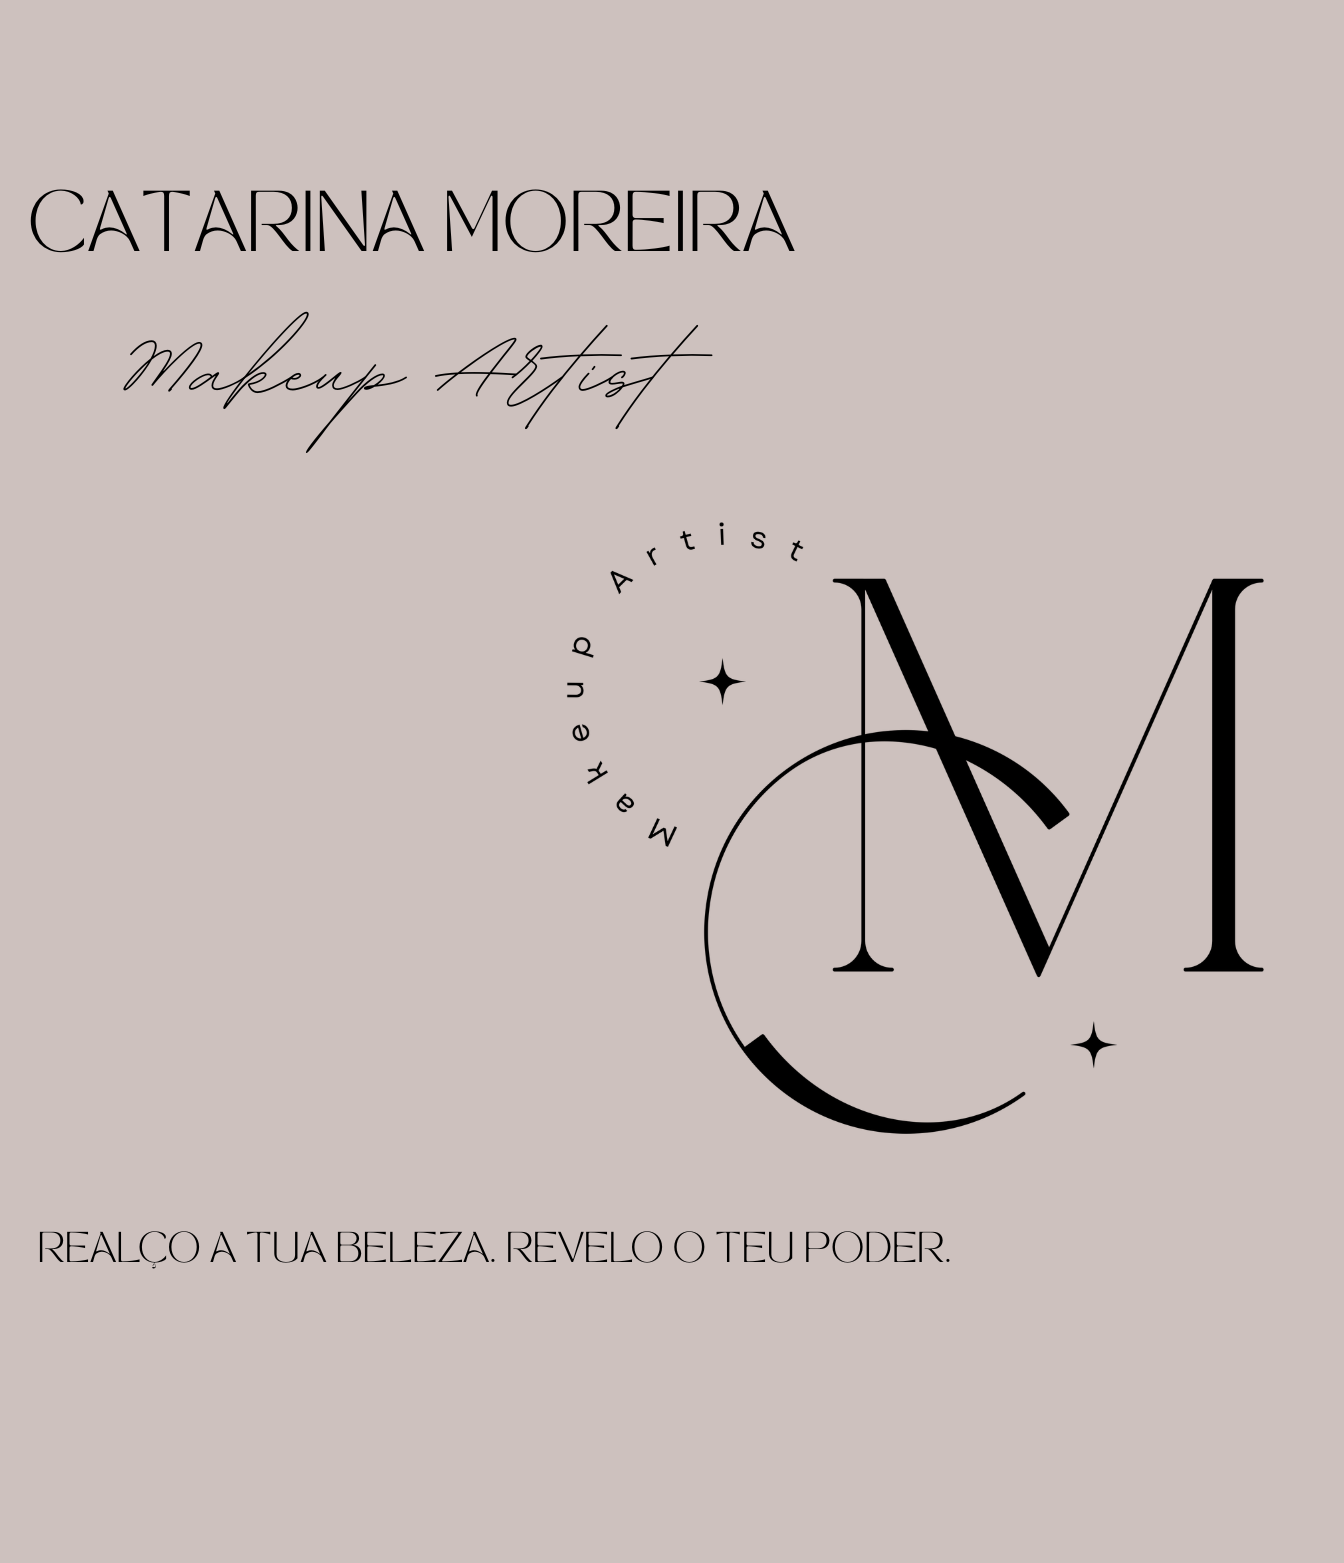
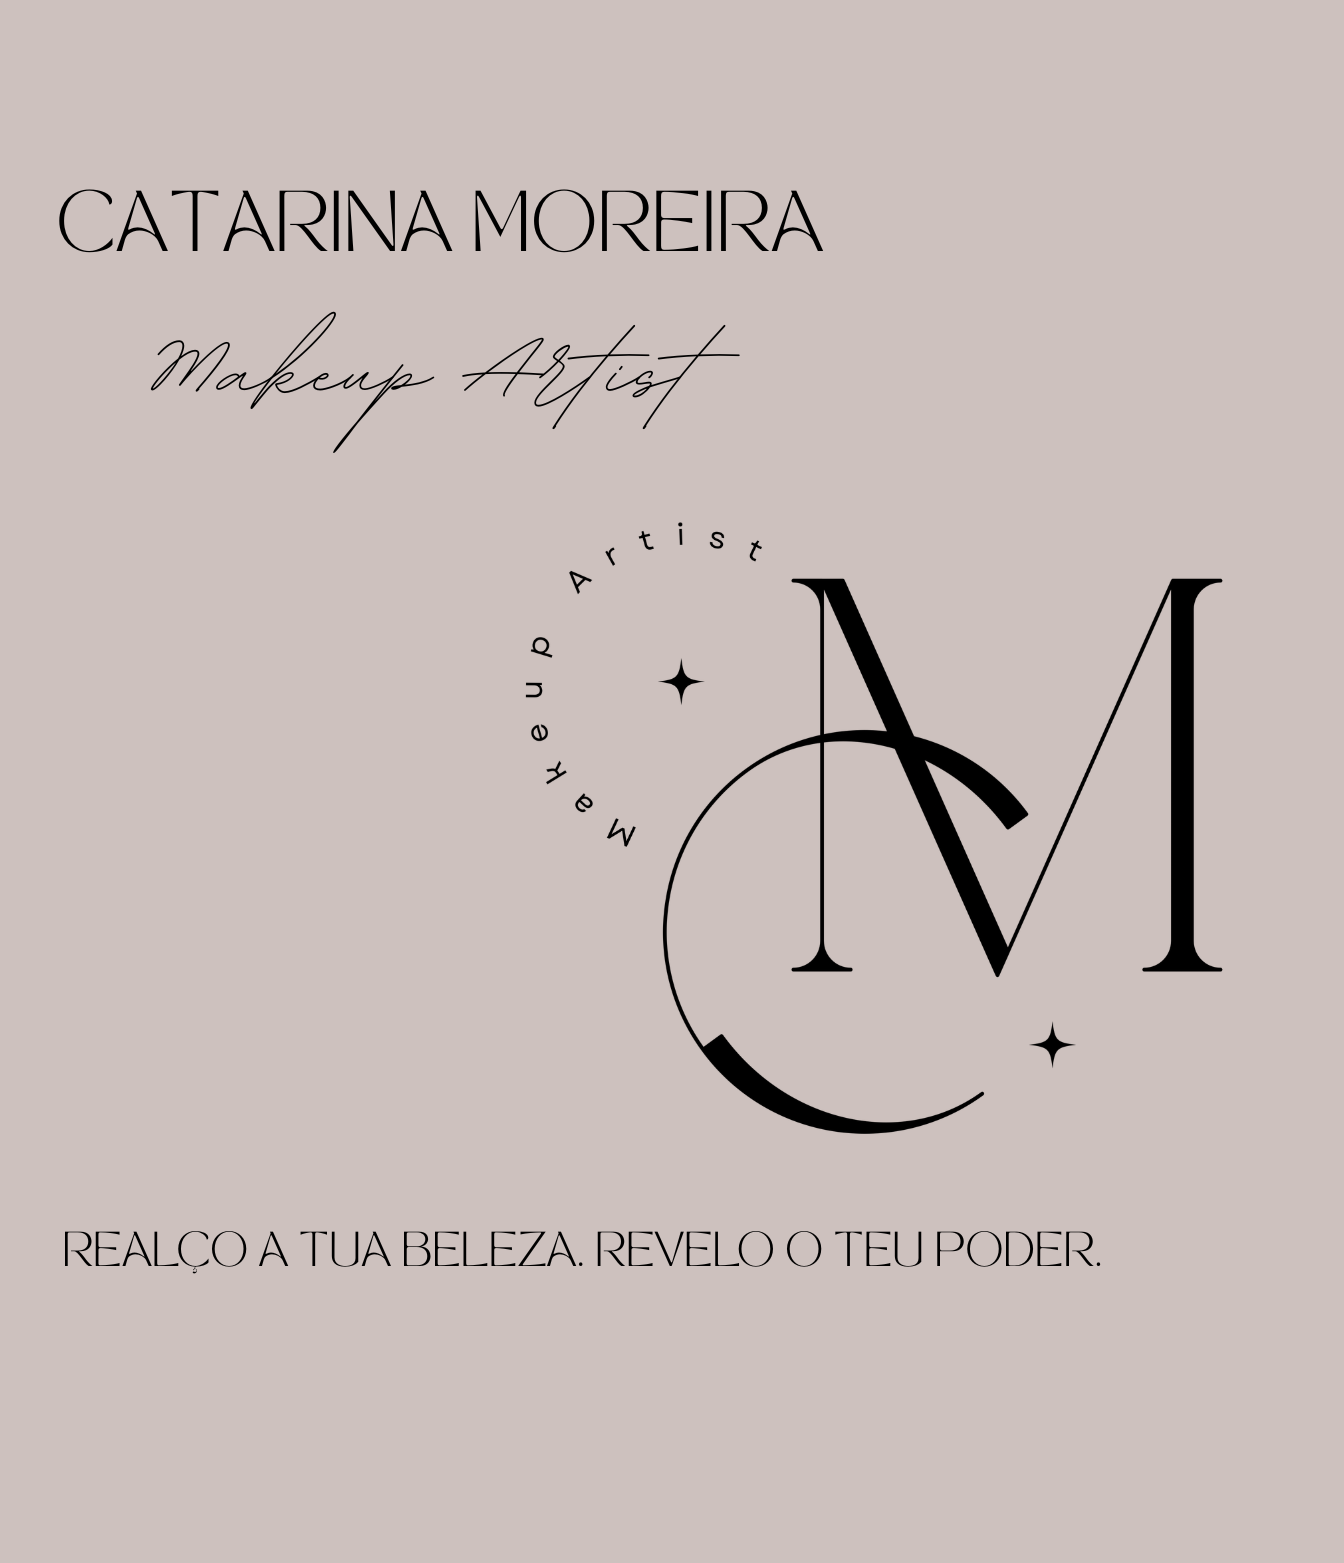
Fix visual stuff

diff --git a/src/index.css b/src/index.css
@@ -52,47 +52,6 @@ body {
   overflow-x: hidden;
 }
 
-/* Block landscape orientation on mobile/tablet only (not desktop) */
-.landscape-blocker {
-  display: none;
-}
-
-@media (orientation: landscape) and (max-height: 600px) {
-  body {
-    overflow: hidden;
-  }
-
-  .landscape-blocker {
-    display: flex;
-    align-items: center;
-    justify-content: center;
-    position: fixed;
-    inset: 0;
-    z-index: 99999;
-    background: var(--bg);
-    padding: 2rem;
-    text-align: center;
-  }
-
-  .landscape-blocker-content {
-    max-width: 320px;
-  }
-
-  .landscape-blocker-icon {
-    display: block;
-    font-size: 4rem;
-    margin-bottom: 1rem;
-    color: var(--accent);
-  }
-
-  .landscape-blocker p {
-    margin: 0;
-    font-size: 1.125rem;
-    color: var(--text);
-    line-height: 1.5;
-  }
-}
-
 a {
   color: var(--accent);
   text-decoration: none;

diff --git a/src/pages/Page.css b/src/pages/Page.css
@@ -53,6 +53,7 @@
   margin-left: calc(50% - 50vw);
   margin-right: calc(50% - 50vw);
   width: 100vw;
+  width: 100svw; /* avoid scrollbar clipping on desktop */
   min-height: 100vh;
   padding: 0;
   display: flex;
@@ -61,6 +62,23 @@
   box-sizing: border-box;
   position: relative;
   overflow: hidden;
+}
+
+/* Desktop: section height = image aspect ratio, button at bottom-left of banner */
+@media (min-width: 1025px) {
+  .home {
+    min-height: 0;
+    aspect-ratio: 1440 / 810; /* match CatarinaMoreiraBanner.svg viewBox */
+    height: auto;
+  }
+
+  .home-hero {
+    position: absolute;
+    bottom: 0;
+    left: 0;
+    padding: 0 0 clamp(2rem, 5vw, 3.5rem) clamp(2rem, 5vw, 4rem);
+    max-width: none;
+  }
 }
 
 .home-bg {
@@ -72,6 +90,7 @@
   background-repeat: no-repeat;
   -webkit-background-size: cover;
 }
+
 
 .home-bg-mobile {
   display: none;

diff --git a/src/components/Layout.jsx b/src/components/Layout.jsx
@@ -32,12 +32,6 @@ export default function Layout() {
 
   return (
     <div className="layout">
-      <div className="landscape-blocker" aria-hidden="true">
-        <div className="landscape-blocker-content">
-          <span className="landscape-blocker-icon" aria-hidden="true">↻</span>
-          <p>Por favor, rode o seu dispositivo para modo vertical para utilizar o site.</p>
-        </div>
-      </div>
       {navOpen && (
         <button
           type="button"

diff --git a/src/pages/Home.jsx b/src/pages/Home.jsx
@@ -1,6 +1,6 @@
 import './Page.css'
-import banner from '../assets/CatarinaMoreiraBanner.svg'
-import bannerMobile from '../assets/banner_mobile.svg'
+import banner from '../assets/CatarinaMoreiraBanner.png'
+import bannerMobile from '../assets/banner_mobile.png'
 
 function scrollToSection(id) {
   const el = document.getElementById(id)
